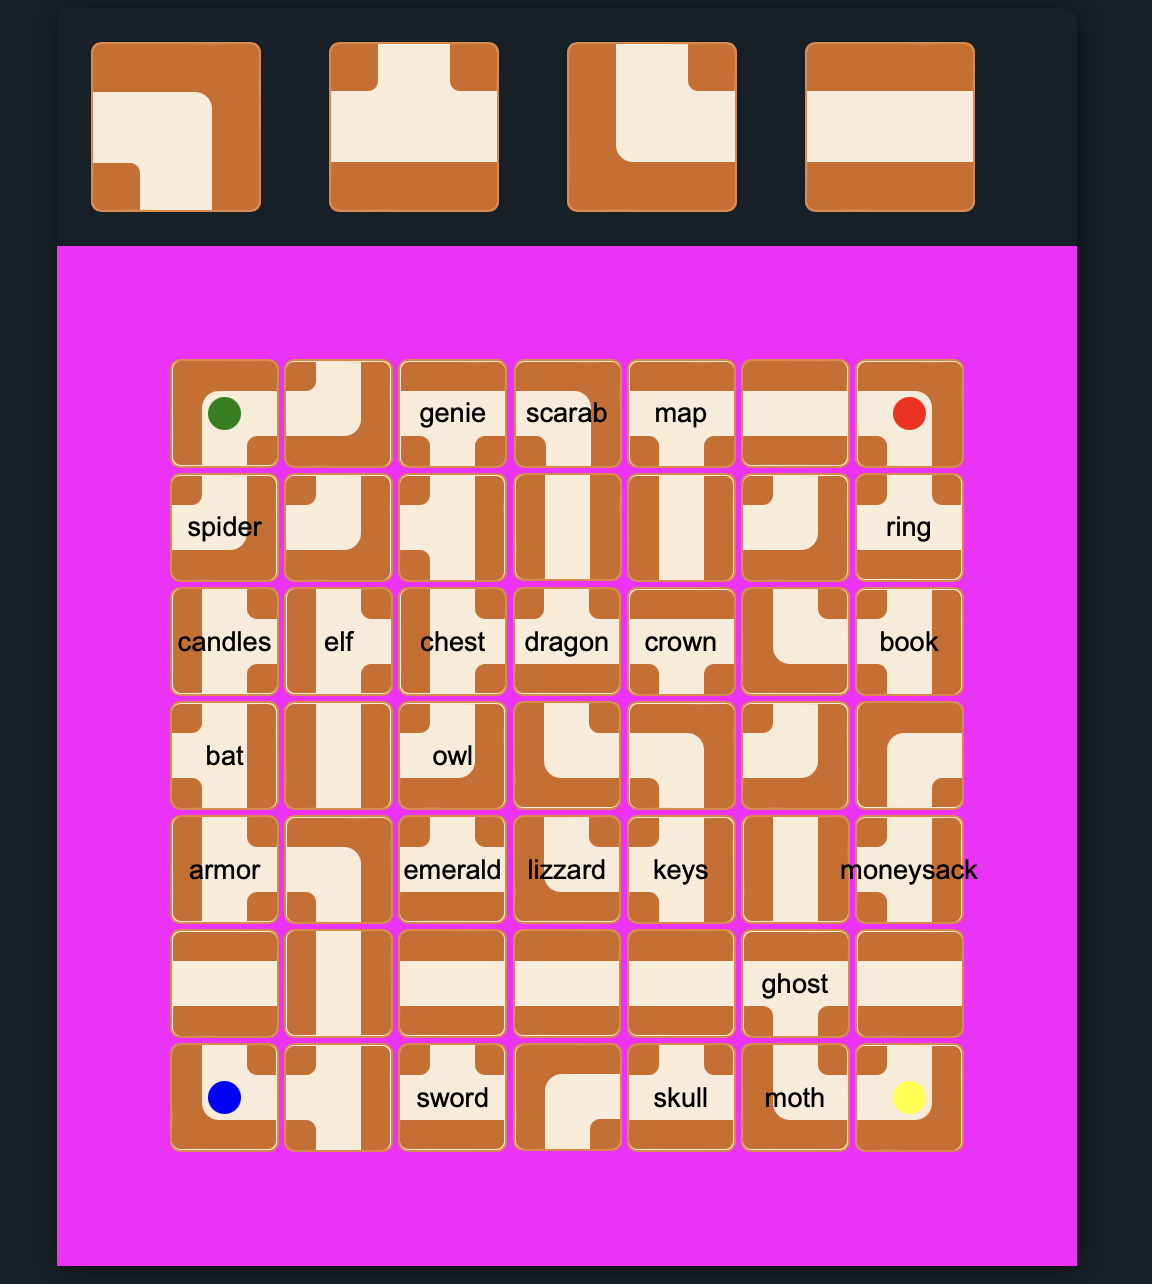
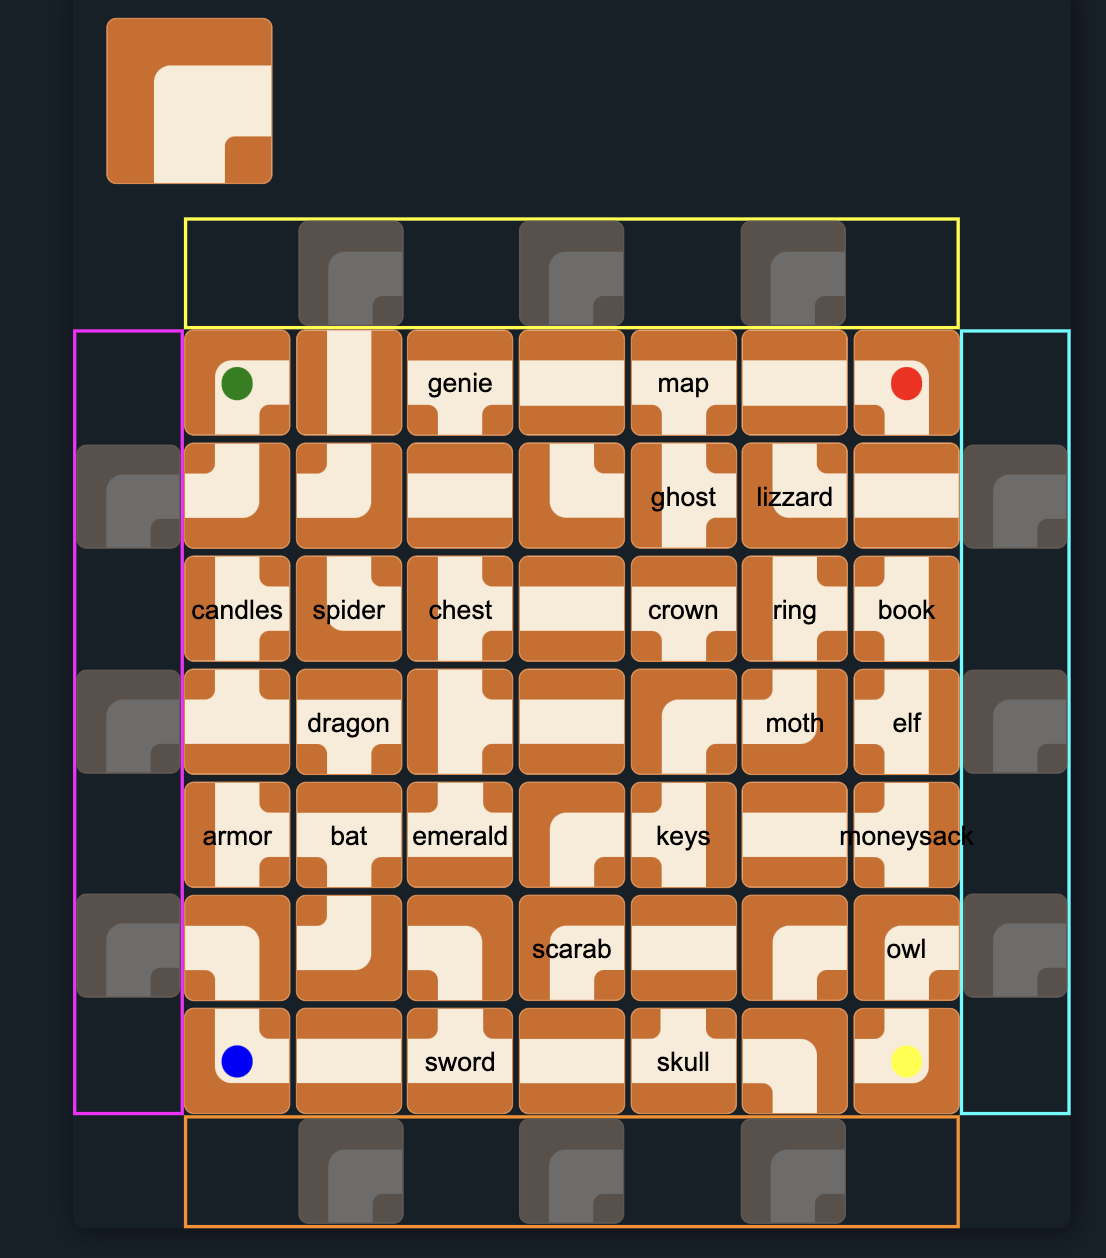
make borders active

diff --git a/frontend/src/board/Board.tsx b/frontend/src/board/Board.tsx
@@ -8,8 +8,8 @@ export type BoardProps = unknown;
 const Board = () => {
   const [boardState, setBoardState] = useState(getRandomBoardTiles());
 
-  const handleMoveTiles = (direction: MoveDirection) => {
-    const updatedBoard = moveTiles(boardState, 1, direction);
+  const handleMoveTiles = (index: number, direction: MoveDirection) => {
+    const updatedBoard = moveTiles(boardState, index, direction);
     setBoardState(updatedBoard);
   };
 
@@ -17,30 +17,36 @@ const Board = () => {
     setBoardState((s) => rotatePlayerTile(s));
   };
 
+  function FrameTile(props: { onClick: () => void }) {
+    return (
+      <div className="player-tile movable" onClick={props.onClick}>
+        <TileMemoized {...boardState.playerTile} rotation={boardState.playerTile.rotation} />
+      </div>
+    );
+  }
+
   return (
     <div className="board-container">
-      <button onClick={() => handleMoveTiles("left")}>Move row left</button>
-      <button onClick={() => handleMoveTiles("right")}>Move row right</button>
-      <button onClick={() => handleMoveTiles("up")}>Move column up</button>
-      <button onClick={() => handleMoveTiles("down")}>Move column down</button>
-
       <div className="tile-test">
         <div style={{ width: 100, margin: 20 }}>
           <div className="player-tile" onClick={() => handleRotatePlayerTile()}>
             <TileMemoized {...boardState.playerTile} rotation={boardState.playerTile.rotation} />
           </div>
         </div>
-        <div style={{ width: 100, margin: 20 }}>
-          <TileMemoized type="T" rotation={0} />
-        </div>
-        <div style={{ width: 100, margin: 20 }}>
-          <TileMemoized type="L" rotation={0} />
-        </div>
-        <div style={{ width: 100, margin: 20 }}>
-          <TileMemoized type="I" rotation={0} />
-        </div>
       </div>
       <div className="board-frame">
+        <div className="frame-side left">
+          {[...Array(boardState.tiles.length).keys()].map((i) => (i % 2 !== 0 ? <FrameTile onClick={() => handleMoveTiles(i, "right")} /> : <div />))}
+        </div>
+        <div className="frame-side right">
+          {[...Array(boardState.tiles.length).keys()].map((i) => (i % 2 !== 0 ? <FrameTile onClick={() => handleMoveTiles(i, "left")} /> : <div />))}
+        </div>
+        <div className="frame-side top">
+          {[...Array(boardState.tiles.length).keys()].map((i) => (i % 2 !== 0 ? <FrameTile onClick={() => handleMoveTiles(i, "down")} /> : <div />))}
+        </div>
+        <div className="frame-side bottom">
+          {[...Array(boardState.tiles.length).keys()].map((i) => (i % 2 !== 0 ? <FrameTile onClick={() => handleMoveTiles(i, "up")} /> : <div />))}
+        </div>
         <div className="board">
           {boardState.tiles
             .flatMap((o) => o)

diff --git a/frontend/src/board/Board.scss b/frontend/src/board/Board.scss
@@ -5,7 +5,6 @@
   }
 
   .board-frame {
-    background-color: magenta;
     display: grid;
     grid-template-columns: repeat(9, 1fr);
     grid-template-rows: repeat(9, 1fr);
@@ -19,7 +18,49 @@
     grid-gap: 3px;
   }
 
+  .frame-side {
+    display: grid;
+    grid-gap: 3px;
+
+    &.left {
+      border: 2px solid magenta;
+      grid-template-rows: repeat(7, 1fr);
+      grid-column: 1 / 1;
+      grid-row: 2 / 9;
+    }
+
+    &.right {
+      border: 2px solid cyan;
+      grid-template-rows: repeat(7, 1fr);
+      grid-column: 9 / 9;
+      grid-row: 2 / 9;
+    }
+
+    &.top {
+      border: 2px solid yellow;
+      grid-template-columns: repeat(7, 1fr);
+      grid-column: 2 / 9;
+      grid-row: 1 / 1;
+    }
+
+    &.bottom {
+      border: 2px solid darkorange;
+      grid-template-columns: repeat(7, 1fr);
+      grid-column: 2 / 9;
+      grid-row: 9 / 9;
+    }
+
+    div.movable {
+      transition: filter 0.1s ease;
+      filter: brightness(40%) contrast(60%) grayscale(60%);
+    }
+
+    div.movable:hover {
+      filter: brightness(100%) contrast(100%);
+    }
+  }
+
   .player-tile .tile {
-    transition: transform 0.5s ease-in-out;
+    transition: transform 0.3s ease-in-out;
   }
 }
